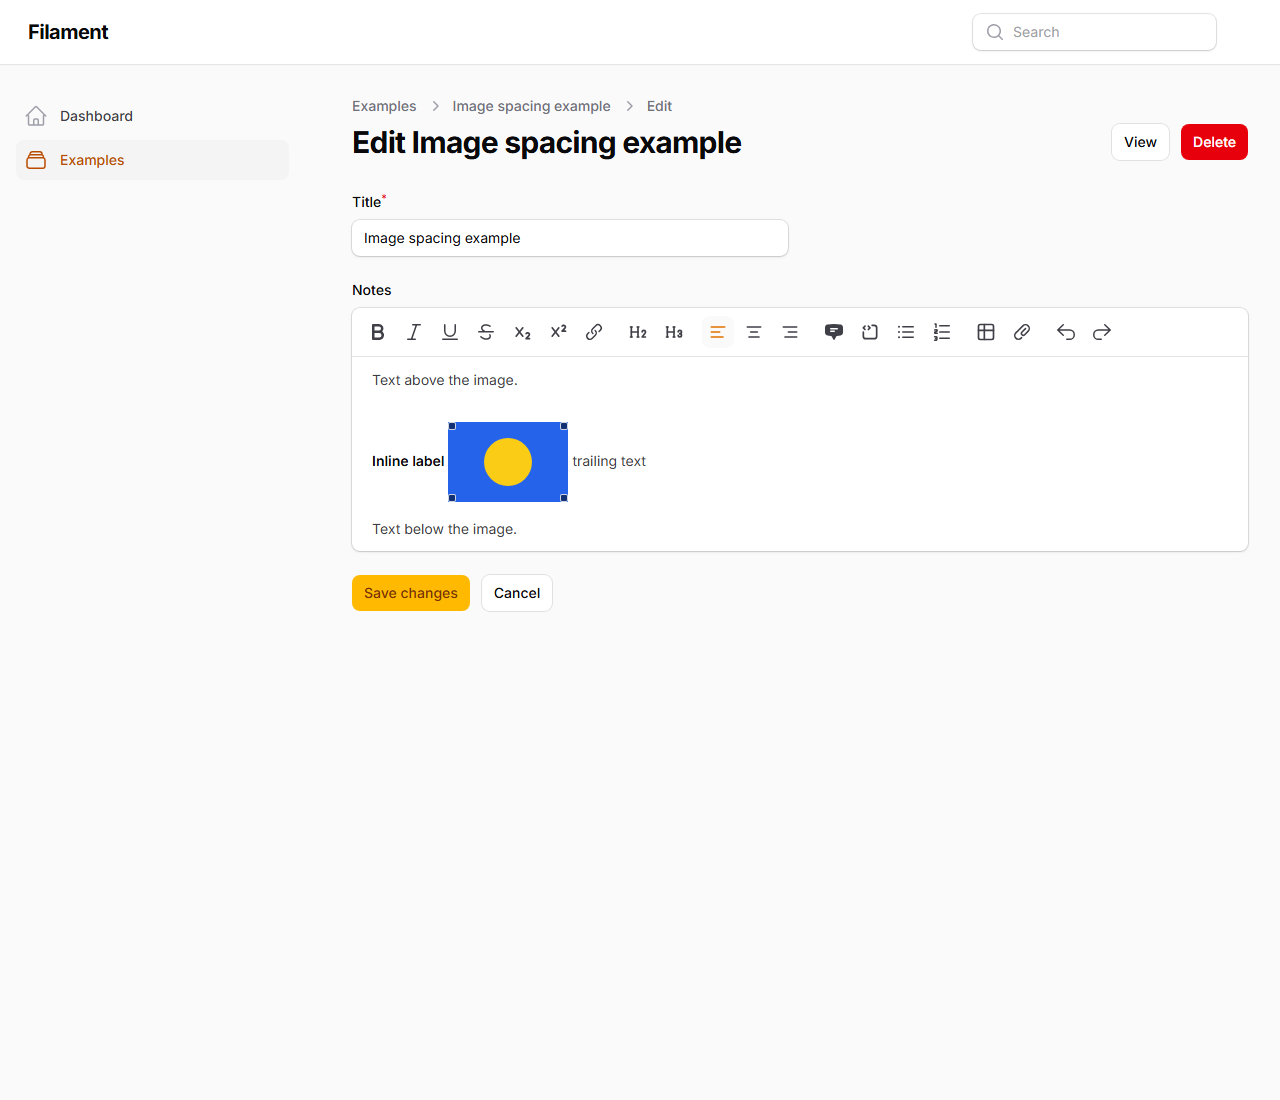
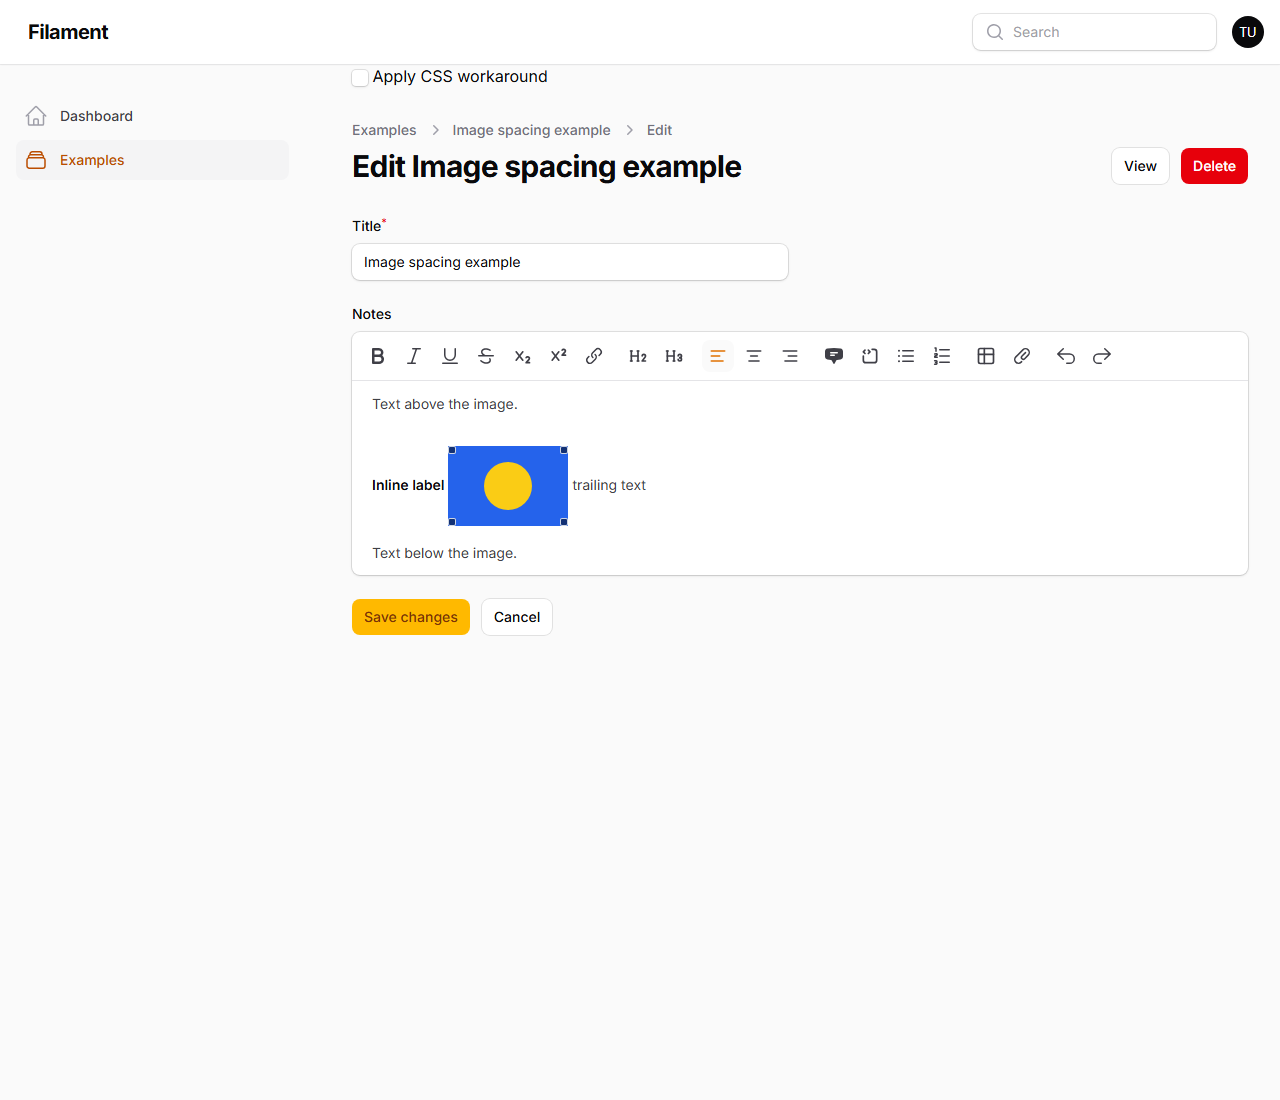
Add resource-page checkbox to enable CSS workaround

Changed region(s): [[0.25, 0.0618, 0.875, 0.5873], [0.875, 0.0927, 1.0, 0.1855], [0.9688, 0.0, 1.0, 0.0618]]

diff --git a/app/Providers/Filament/AdminPanelProvider.php b/app/Providers/Filament/AdminPanelProvider.php
@@ -2,6 +2,8 @@
 
 namespace App\Providers\Filament;
 
+use App\Filament\Resources\Examples\ExampleResource;
+use Illuminate\Contracts\View\View;
 use Filament\Http\Middleware\Authenticate;
 use Filament\Http\Middleware\AuthenticateSession;
 use Filament\Http\Middleware\DisableBladeIconComponents;
@@ -29,6 +31,11 @@ class AdminPanelProvider extends PanelProvider
             ->default()
             ->id('admin')
             ->path('admin')
+            ->renderHook(
+                PanelsRenderHook::PAGE_START,
+                fn (): View => view('filament.workaround-toggle'),
+                scopes: ExampleResource::class,
+            )
             ->renderHook(PanelsRenderHook::HEAD_END, fn (): HtmlString => new HtmlString(
                 request()->boolean('workarounds') ? '<link rel="stylesheet" href="'.asset('workarounds.css').'">' : ''
             ))

diff --git a/resources/views/filament/workaround-toggle.blade.php b/resources/views/filament/workaround-toggle.blade.php
@@ -1,0 +1,15 @@
+<label>
+    <input
+        type="checkbox"
+        class="fi-checkbox-input"
+        @checked(request()->boolean('workarounds'))
+        onchange="
+            const url = new window.URL(window.location.href);
+            this.checked
+                ? url.searchParams.set('workarounds', '1')
+                : url.searchParams.delete('workarounds');
+            window.location.assign(url);
+        "
+    >
+    Apply CSS workaround
+</label>

diff --git a/README.md b/README.md
@@ -19,13 +19,13 @@ Log in at `/admin` with `test@example.com` / `password` (local template credenti
 2. The notes contain a text paragraph above the image, a bold inline label before it, trailing text, and a text paragraph below it.
 3. Inspect `.tiptap p [data-resize-container]`: its computed top margin is 16px.
 4. Open the resource's **View** page. The disabled rich editor renders the same saved content; `.fi-prose p img` has a computed top margin of 16px.
-5. Append `?workarounds=1` to either page and reload. Both affected margins become 0px, with paragraph spacing retained.
+5. Check **Apply CSS workaround** at the top of either page. The checkbox adds `?workarounds=1` and reloads the page. Both affected margins become 0px, with paragraph spacing retained.
 
 There is no custom page or custom page template. `ExampleResource` uses `RichEditor::make('notes')->resizableImages()`; the view page uses Filament's default disabled form. The model, migration, factory, and seeder provide one persisted example. The image is a local SVG fixture.
 
 ## Workaround
 
-`public/workarounds.css` contains only the image-spacing override. It is loaded by an optional panel head hook when `?workarounds=1` is present. Default pages use stock Filament styles.
+`public/workarounds.css` contains only the image-spacing override. The checkbox adds or removes `?workarounds=1`; an optional panel head hook loads the stylesheet when that flag is present. Unchecking it reloads the original styles. Default pages use stock Filament styles.
 
 ## Screenshots
 
